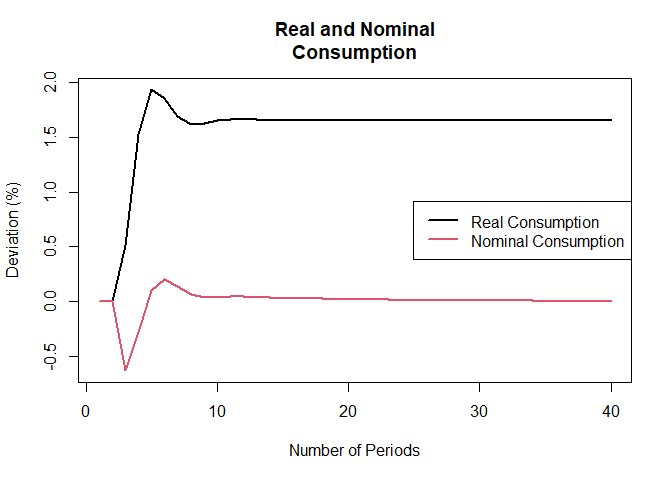
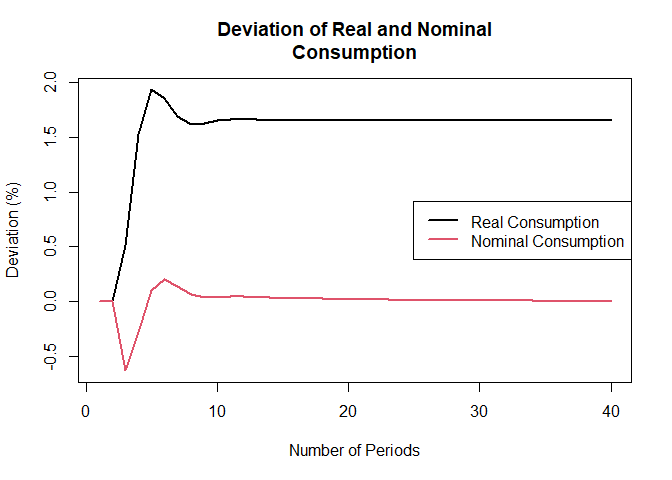
Correction of certain plots

Changed region(s): [[0.3125, 0.0312, 0.75, 0.0938]]

diff --git a/Title.md b/Title.md
@@ -222,7 +222,7 @@ following the shock on Ontario’s funds.
 
 ``` r
 ts.plot(cbind(model[3:7,c("Y_AB")],model[3:7,c("Y_ON")],model[3:7,c("Y_QC")],
-              model[3:7,c("AVGY")]),main="GDP for Alberta, Ontario, Quebec",col=1:4,lwd=2, xlab = "Number of Periods", ylab = "Provincial GDP")
+              model[3:7,c("AVGY")]),main="Provincial GDP's over time",col=1:4,lwd=2, xlab = "Number of Periods", ylab = "Value of Provincial GDP")
 legend('bottomright',legend=c("AB", "ON", "QC", "AVG"),col=1:4,lty=1,lwd=2)
 ```
 
@@ -256,7 +256,7 @@ shock_rho <- sfcr_scenario(
   periods = nper
 )
 
-ts.plot((100*(shock_rho$Y[1:10]/shock_rho$Y[1]-1)),main="Change in Ontario's GDP", ylab ="GDP Deviation (%)", xlab = 
+ts.plot((100*(shock_rho$Y[1:10]/shock_rho$Y[1]-1)),main="Change in Ontario's GDP after Payment Equalization", ylab ="GDP Deviation (%)", xlab = 
           "Number of periods")
 ```
 
@@ -269,9 +269,8 @@ Observe the impact of the payments of equalization on Ontario’s GDP in
 the first 10 periods:
 
 ``` r
-ts.plot(cbind(shock_ON[1:10,c("Y")],shock_rho[1:10,c("Y")]),main="GDP 
-        comparison with rho_eqz parameter",col=1:2,lwd=2, xlab = "Number of Periods")
-legend('bottomright',legend=c("rho_eqz = 0", "rho_eqz = 1"),col=1:4,lty=1,lwd=2)
+ts.plot(cbind(shock_ON[1:10,c("Y")],shock_rho[1:10,c("Y")]),main="Change in GDP implementing Payment Equalization System",col=1:2,lwd=2, xlab = "Number of Periods", ylab = "Ontario's GDP")
+legend('bottomright',legend=c("GDP with no changes", "Presence of Payment Equalization"),col=1:4,lty=1,lwd=2)
 ```
 
 ![](Figs/unnamed-chunk-9-1.png)<!-- -->
@@ -498,7 +497,7 @@ Bh_US_CA et Bh_US_US in a separate graph. \*Bh = bonds held
 ``` r
 ts.plot(cbind(shock_rUS[3:100,c("Bh_CA_CA")],shock_rUS[3:100,c("Bh_CA_US")]),
         main="Bonds in terms of CAD",col=1:2,lwd=2, xlab = "Number of Periods")
-legend('right',legend=c("Bh_CA_CA", "Bh_CA_US"),col=1:2,lty=1,lwd=2)
+legend('right',legend=c("Canadian Bonds held by Canadians", "Canadian Bonds held by Americans"),col=1:2,lty=1,lwd=2)
 ```
 
 ![](Figs/unnamed-chunk-16-1.png)<!-- -->
@@ -506,7 +505,7 @@ legend('right',legend=c("Bh_CA_CA", "Bh_CA_US"),col=1:2,lty=1,lwd=2)
 ``` r
 ts.plot(cbind(shock_rUS[3:100,c("Bh_US_CA")],shock_rUS[3:100,c("Bh_US_US")]),
         main="Bonds in terms of USD",col=1:2,lwd=2, xlab = "Number of Periods")
-legend('right',legend=c("Bh_US_CA", "Bh_US_US"),col=1:2,lty=1,lwd=2)
+legend('right',legend=c("American Bonds held by Canadians", "American Bonds held by Americans"),col=1:2,lty=1,lwd=2)
 ```
 
 ![](Figs/unnamed-chunk-16-2.png)<!-- -->
@@ -864,9 +863,9 @@ unit cost of production.
 
 ``` r
 ts.plot(cbind((100*(shock_p$W[1:40]/shock_p$W[1]-1)), (100*(shock_p$Wn[1:40]/
-shock_p$Wn[1]-1)), (100*(shock_p$UCn[1:40]/shock_p$UCn[1]-1))),main="Cost of production, Real and Nominal Wages",col=1:3,lwd=2, xlab = "Number of Periods")
-legend('right',legend=c("Real Wages", "Nominal Wages", "marginal cost of
-production"),col=1:3,lty=1,lwd=2)
+shock_p$Wn[1]-1)), (100*(shock_p$UCn[1:40]/shock_p$UCn[1]-1))),main="Deviation of Marginal Cost of Production, Real, and Nominal Wages",col=1:3,lwd=2, xlab = "Number of Periods", ylab ="Deviation (%)")
+legend(x=33.5, y=0.7, legend=c("Real Wages", "Nominal Wages", "Marginal cost of
+production"), col=1:3, lty=1,lwd=2, cex=0.6)
 ```
 
 ![](Figs/unnamed-chunk-25-1.png)<!-- -->
@@ -880,7 +879,7 @@ Plot the evolution of real consumption and nominal consumption:
 
 ``` r
 ts.plot(cbind((100*(shock_p$C[1:40]/shock_p$C[1]-1)), (100*(shock_p$Cn[1:40]/
-shock_p$Cn[1]-1))),main="Real and Nominal
+shock_p$Cn[1]-1))),main="Deviation of Real and Nominal
 Consumption",col=1:2,lwd=2, xlab = "Number of Periods", ylab = "Deviation (%)")
 legend('right',legend=c("Real Consumption", "Nominal Consumption"),col=1:2,lty=1,lwd=2)
 ```
@@ -917,7 +916,7 @@ shock_N <- sfcr_scenario(
 
 
 ts.plot(cbind((100*(shock_N$P[1:40]/shock_N$P[1]-1)),(100*(shock_p$P[1:40]/
-        shock_p$P[1]-1))),main="Price levels after Pandemic",col=1:2,lwd=2, ylab
+        shock_p$P[1]-1))),main="Price levels Deviation after Pandemic",col=1:2,lwd=2, ylab
         ="Price Levels Deviation (%)", xlab = "Number of periods")
 legend('right',legend=c("Price levels with Pandemic", "Price level with only production inc"),col=1:2,lty=1,lwd=2)
 ```
